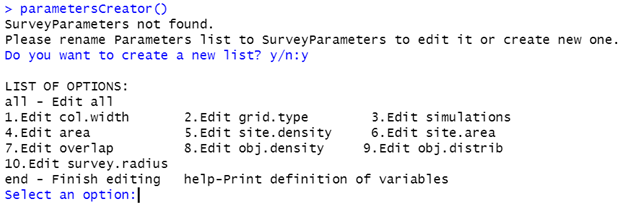
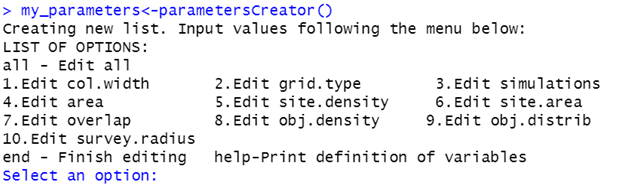
Version 1.0.1 Changed parametersCreator to not assign values to the global environment + minor edits to code and documentation

Changed region(s): [[0.0, 0.0, 1.0, 0.9688], [0.7003, 0.4062, 0.9744, 0.4688], [0.3349, 0.4062, 0.5785, 0.4688]]

diff --git a/NEWS.md b/NEWS.md
@@ -1,0 +1,5 @@
+# DIGSS 1.0.1
+
+-   Changed `parametersCreator` to not assign values to the global environment
+-   Cleaned a few code lines that were printing unnecessary information to the console
+-   Updated documentation to reflect changes in `parametersCreator`
